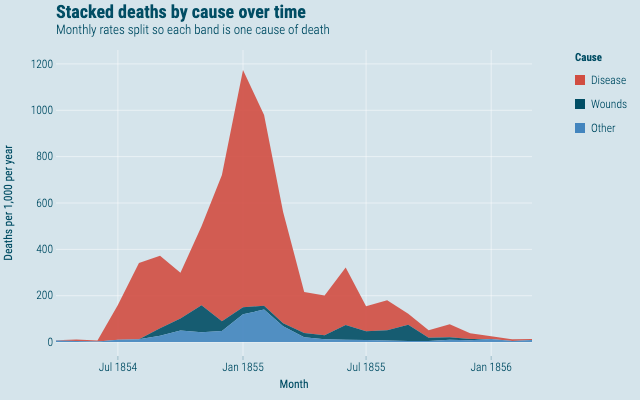
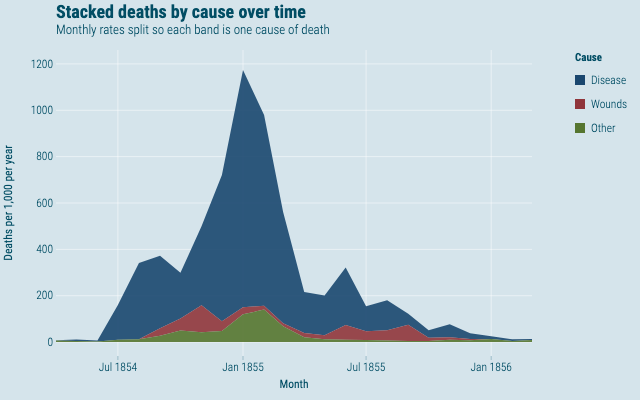
fix(examples): recapture stacked area preview on stata palette
Use the stata scheme so all three fills clear 3:1 on the economist
panel, and refresh gallery provenance plus docs route/search copy.

diff --git a/examples/area/stacked/Example.svelte b/examples/area/stacked/Example.svelte
@@ -21,10 +21,7 @@
 >
   <GeomArea alpha={0.9} />
   <ScaleXDate labels="%b %Y" />
-  <ScaleFillDiscrete
-    domain={["Disease", "Wounds", "Other"]}
-    scheme="fivethirtyeight"
-  />
+  <ScaleFillDiscrete domain={["Disease", "Wounds", "Other"]} scheme="stata" />
   <ThemeEconomist />
   <GuideLegend channel="fill" focus />
   <Labs

diff --git a/examples/area/stacked/spec.ts b/examples/area/stacked/spec.ts
@@ -9,7 +9,7 @@ export default defineExample(
     // Domain is fixed so cause-to-colour never depends on row order.
     .scaleFillDiscrete({
       domain: ["Disease", "Wounds", "Other"],
-      scheme: "fivethirtyeight",
+      scheme: "stata",
     })
     .scales({ x: { labels: "%b %Y" } })
     .theme("economist")
